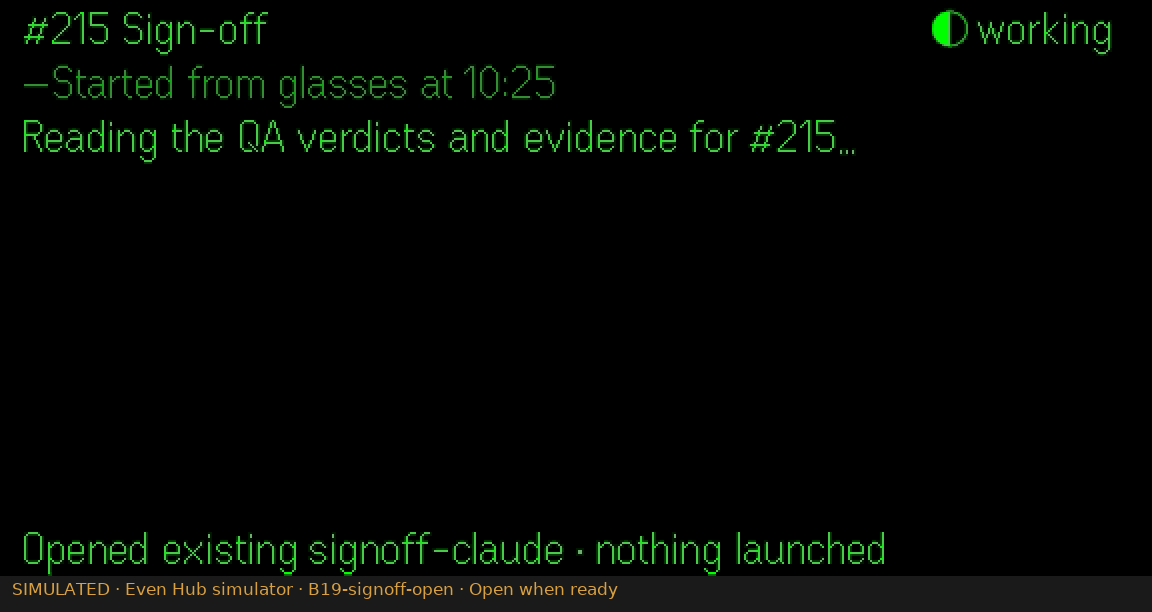
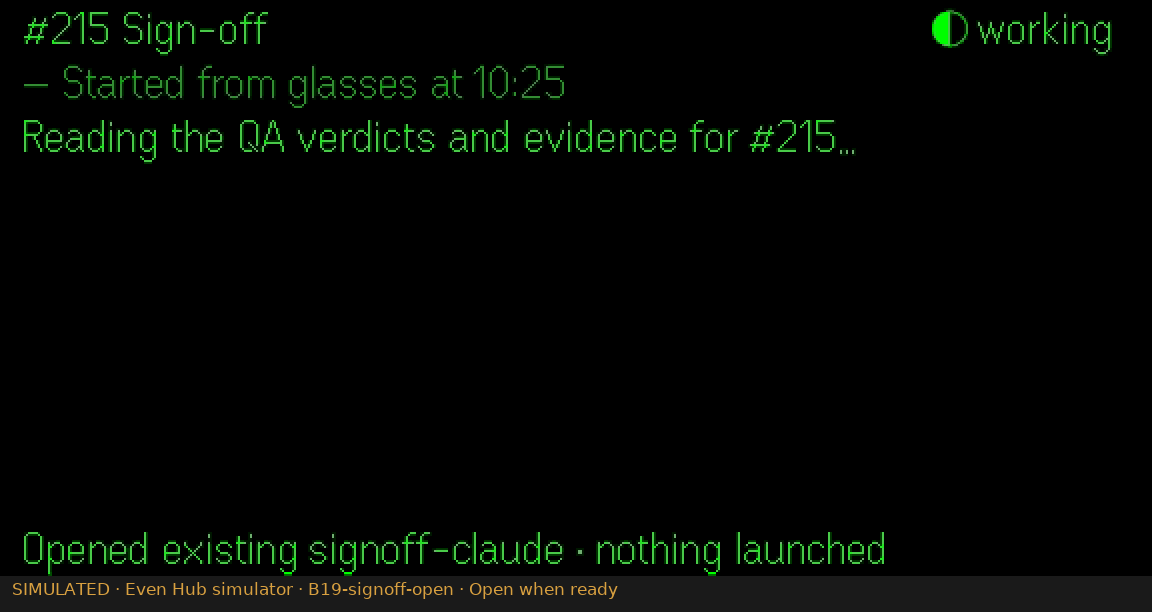
qa: keep a space after the PM transcript em dash on the glasses
The 15 px firmware em dash touched text placed at 16 px, so PM lines read
"—Started from glasses" / "—INPUT_REQUIRED". Text now starts one space past
a wider lead. check.mjs gains a rule (fails on old code for 5 sessions);
recaptured A08 A09 B11 B14 B19 with the official simulator (other A/B shots
byte-identical).

Changed region(s): [[0.0312, 0.0931, 0.5, 0.1863]]

diff --git a/pm/docs/even-realities/mockup/src/app.js b/pm/docs/even-realities/mockup/src/app.js
@@ -558,8 +558,11 @@ export class App {
       const lead = { agent: '', user: '› ', tool: '· ', pm: '— ' }[m.who];
       const dim = m.who !== 'agent';
       const text = m.who === 'user' && m.context ? `${m.t}  [${m.context.label}]` : m.t;
-      const lines = wrap(text + (m.streaming ? ' …' : '') + (m.queued ? '  (queued)' : ''), TEXT_WIDTH - (lead ? 16 : 0));
-      lines.forEach((t, i) => out.push(lead ? [{ t: i ? '' : lead.trim(), dim }, { t, x: 16, dim }] : [{ t }]));
+      // Text starts at 16 px, or one space past a wider lead: the firmware
+      // em dash is 15 px, so at 16 it touched the text ("—Started").
+      const x = lead ? Math.max(16, width(lead)) : 0;
+      const lines = wrap(text + (m.streaming ? ' …' : '') + (m.queued ? '  (queued)' : ''), TEXT_WIDTH - x);
+      lines.forEach((t, i) => out.push(lead ? [{ t: i ? '' : lead.trim(), dim }, { t, x, dim }] : [{ t }]));
     }
     return out;
   }
